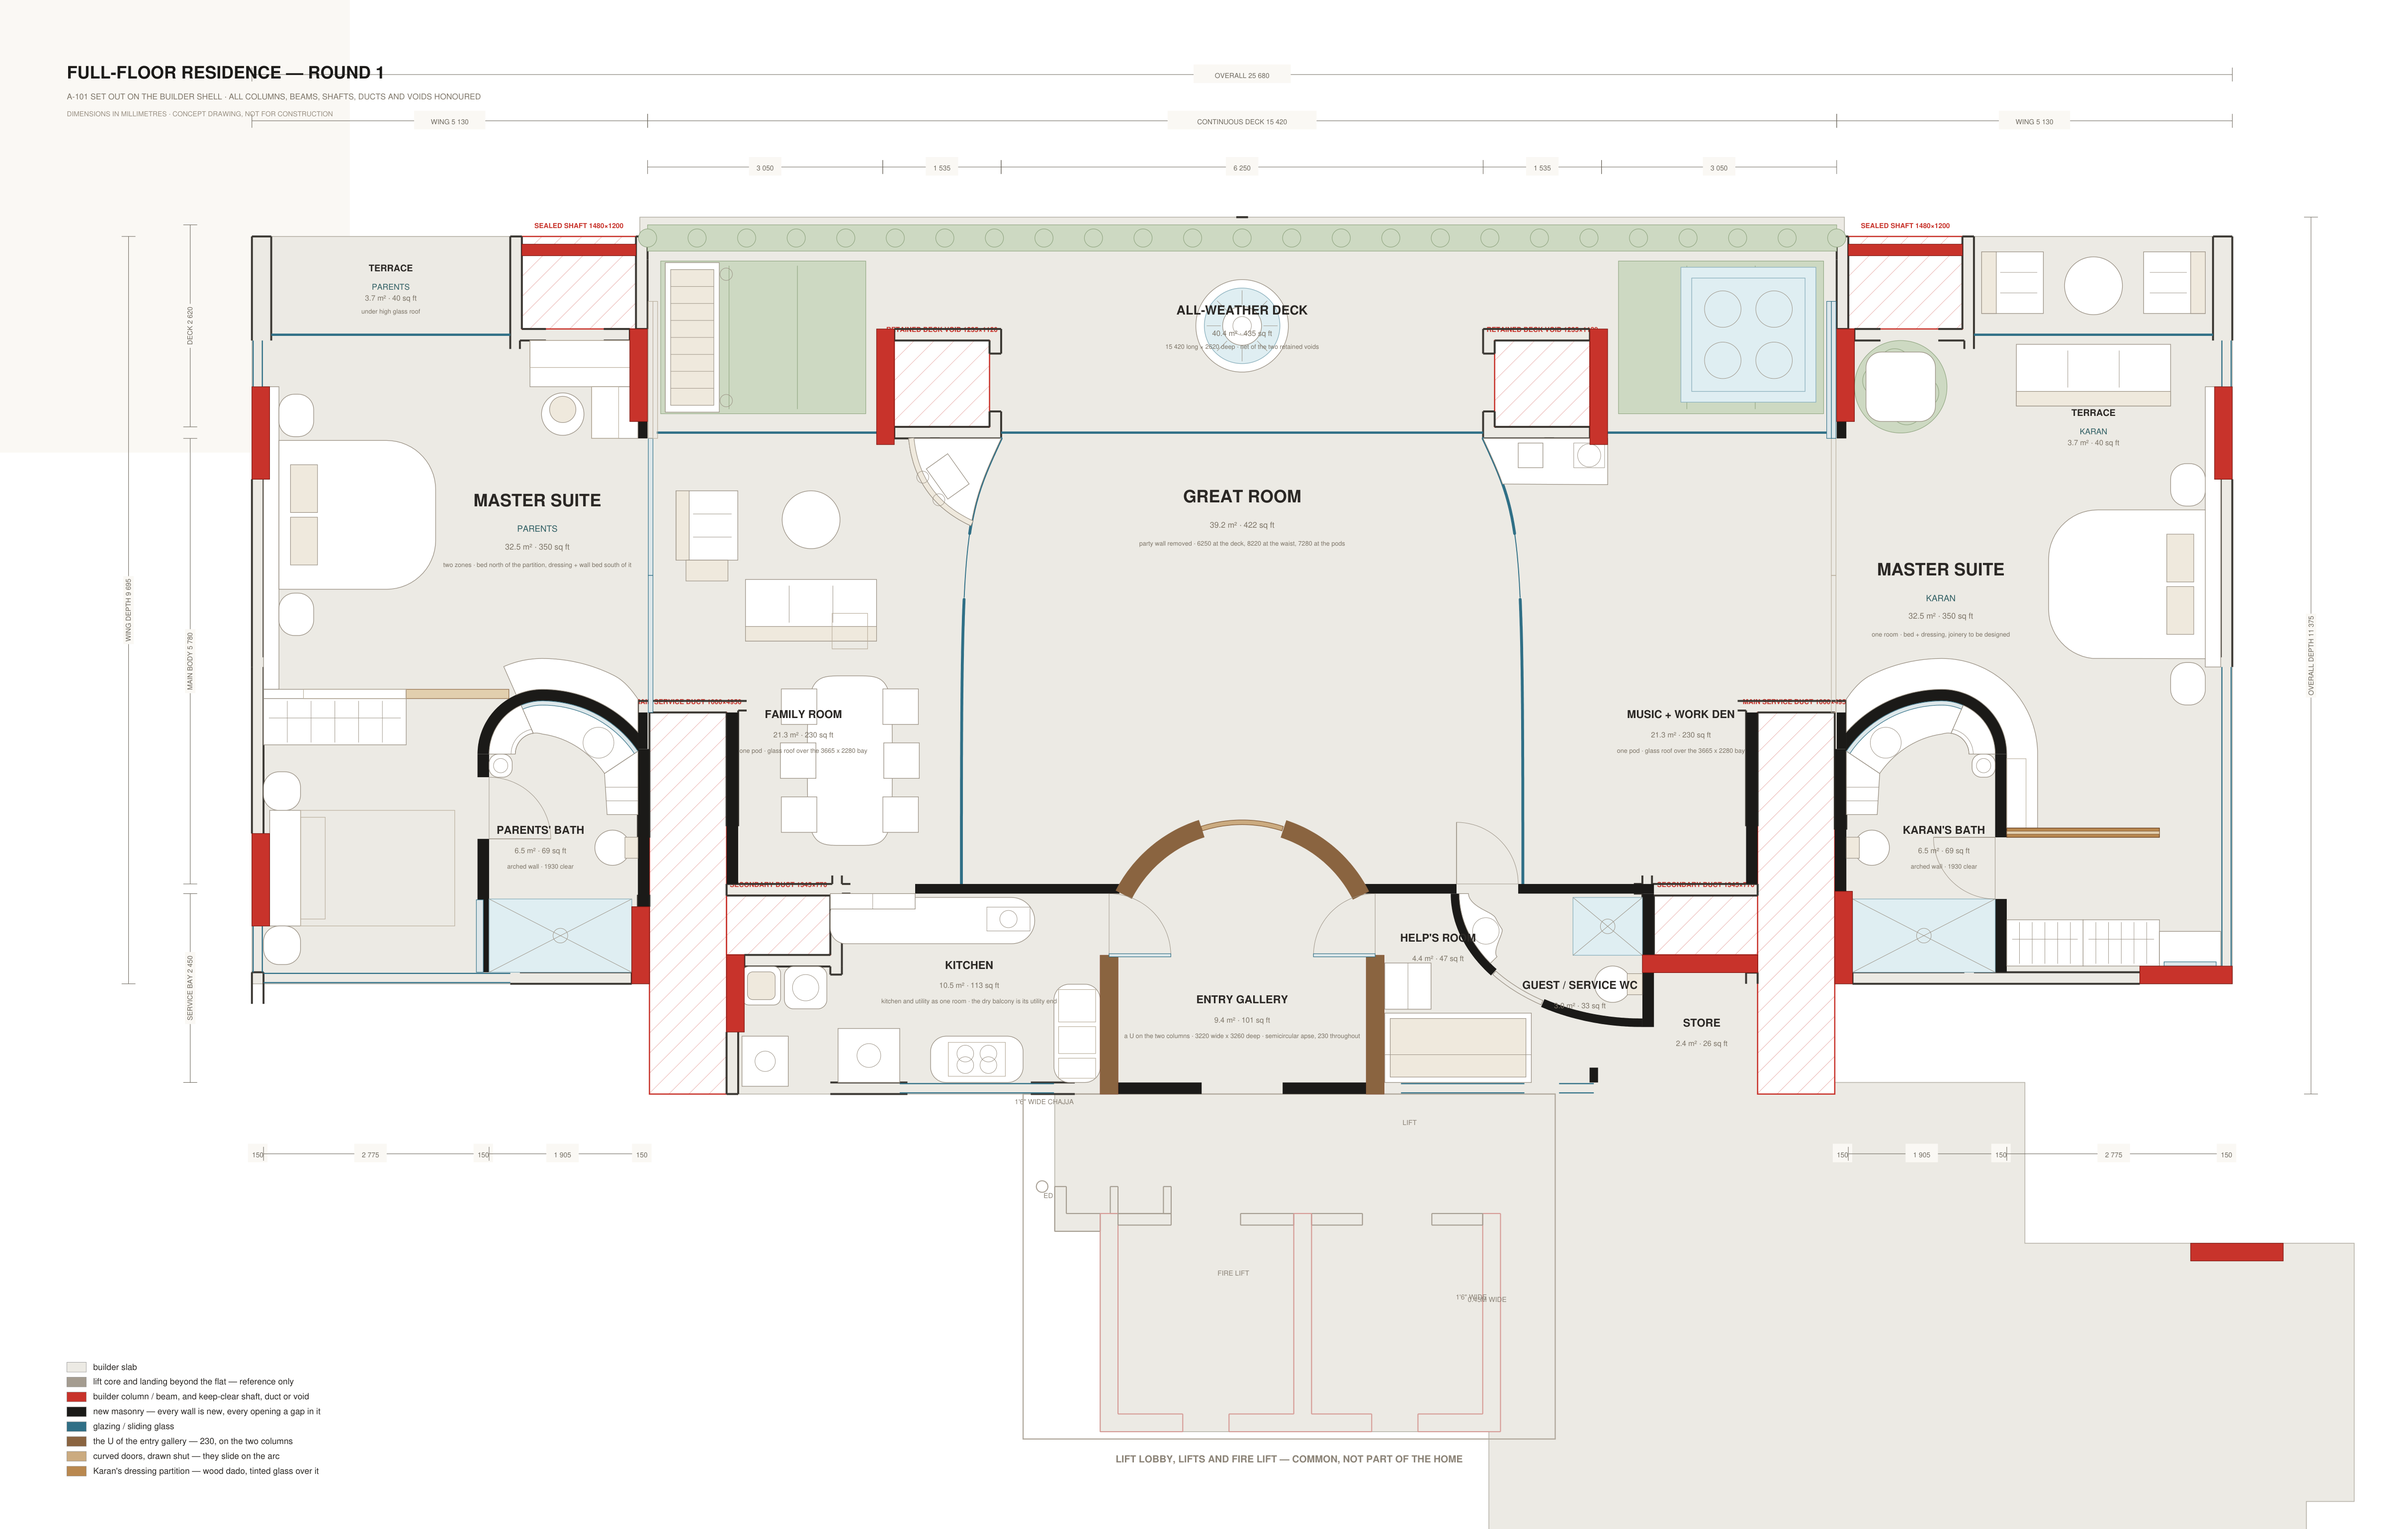
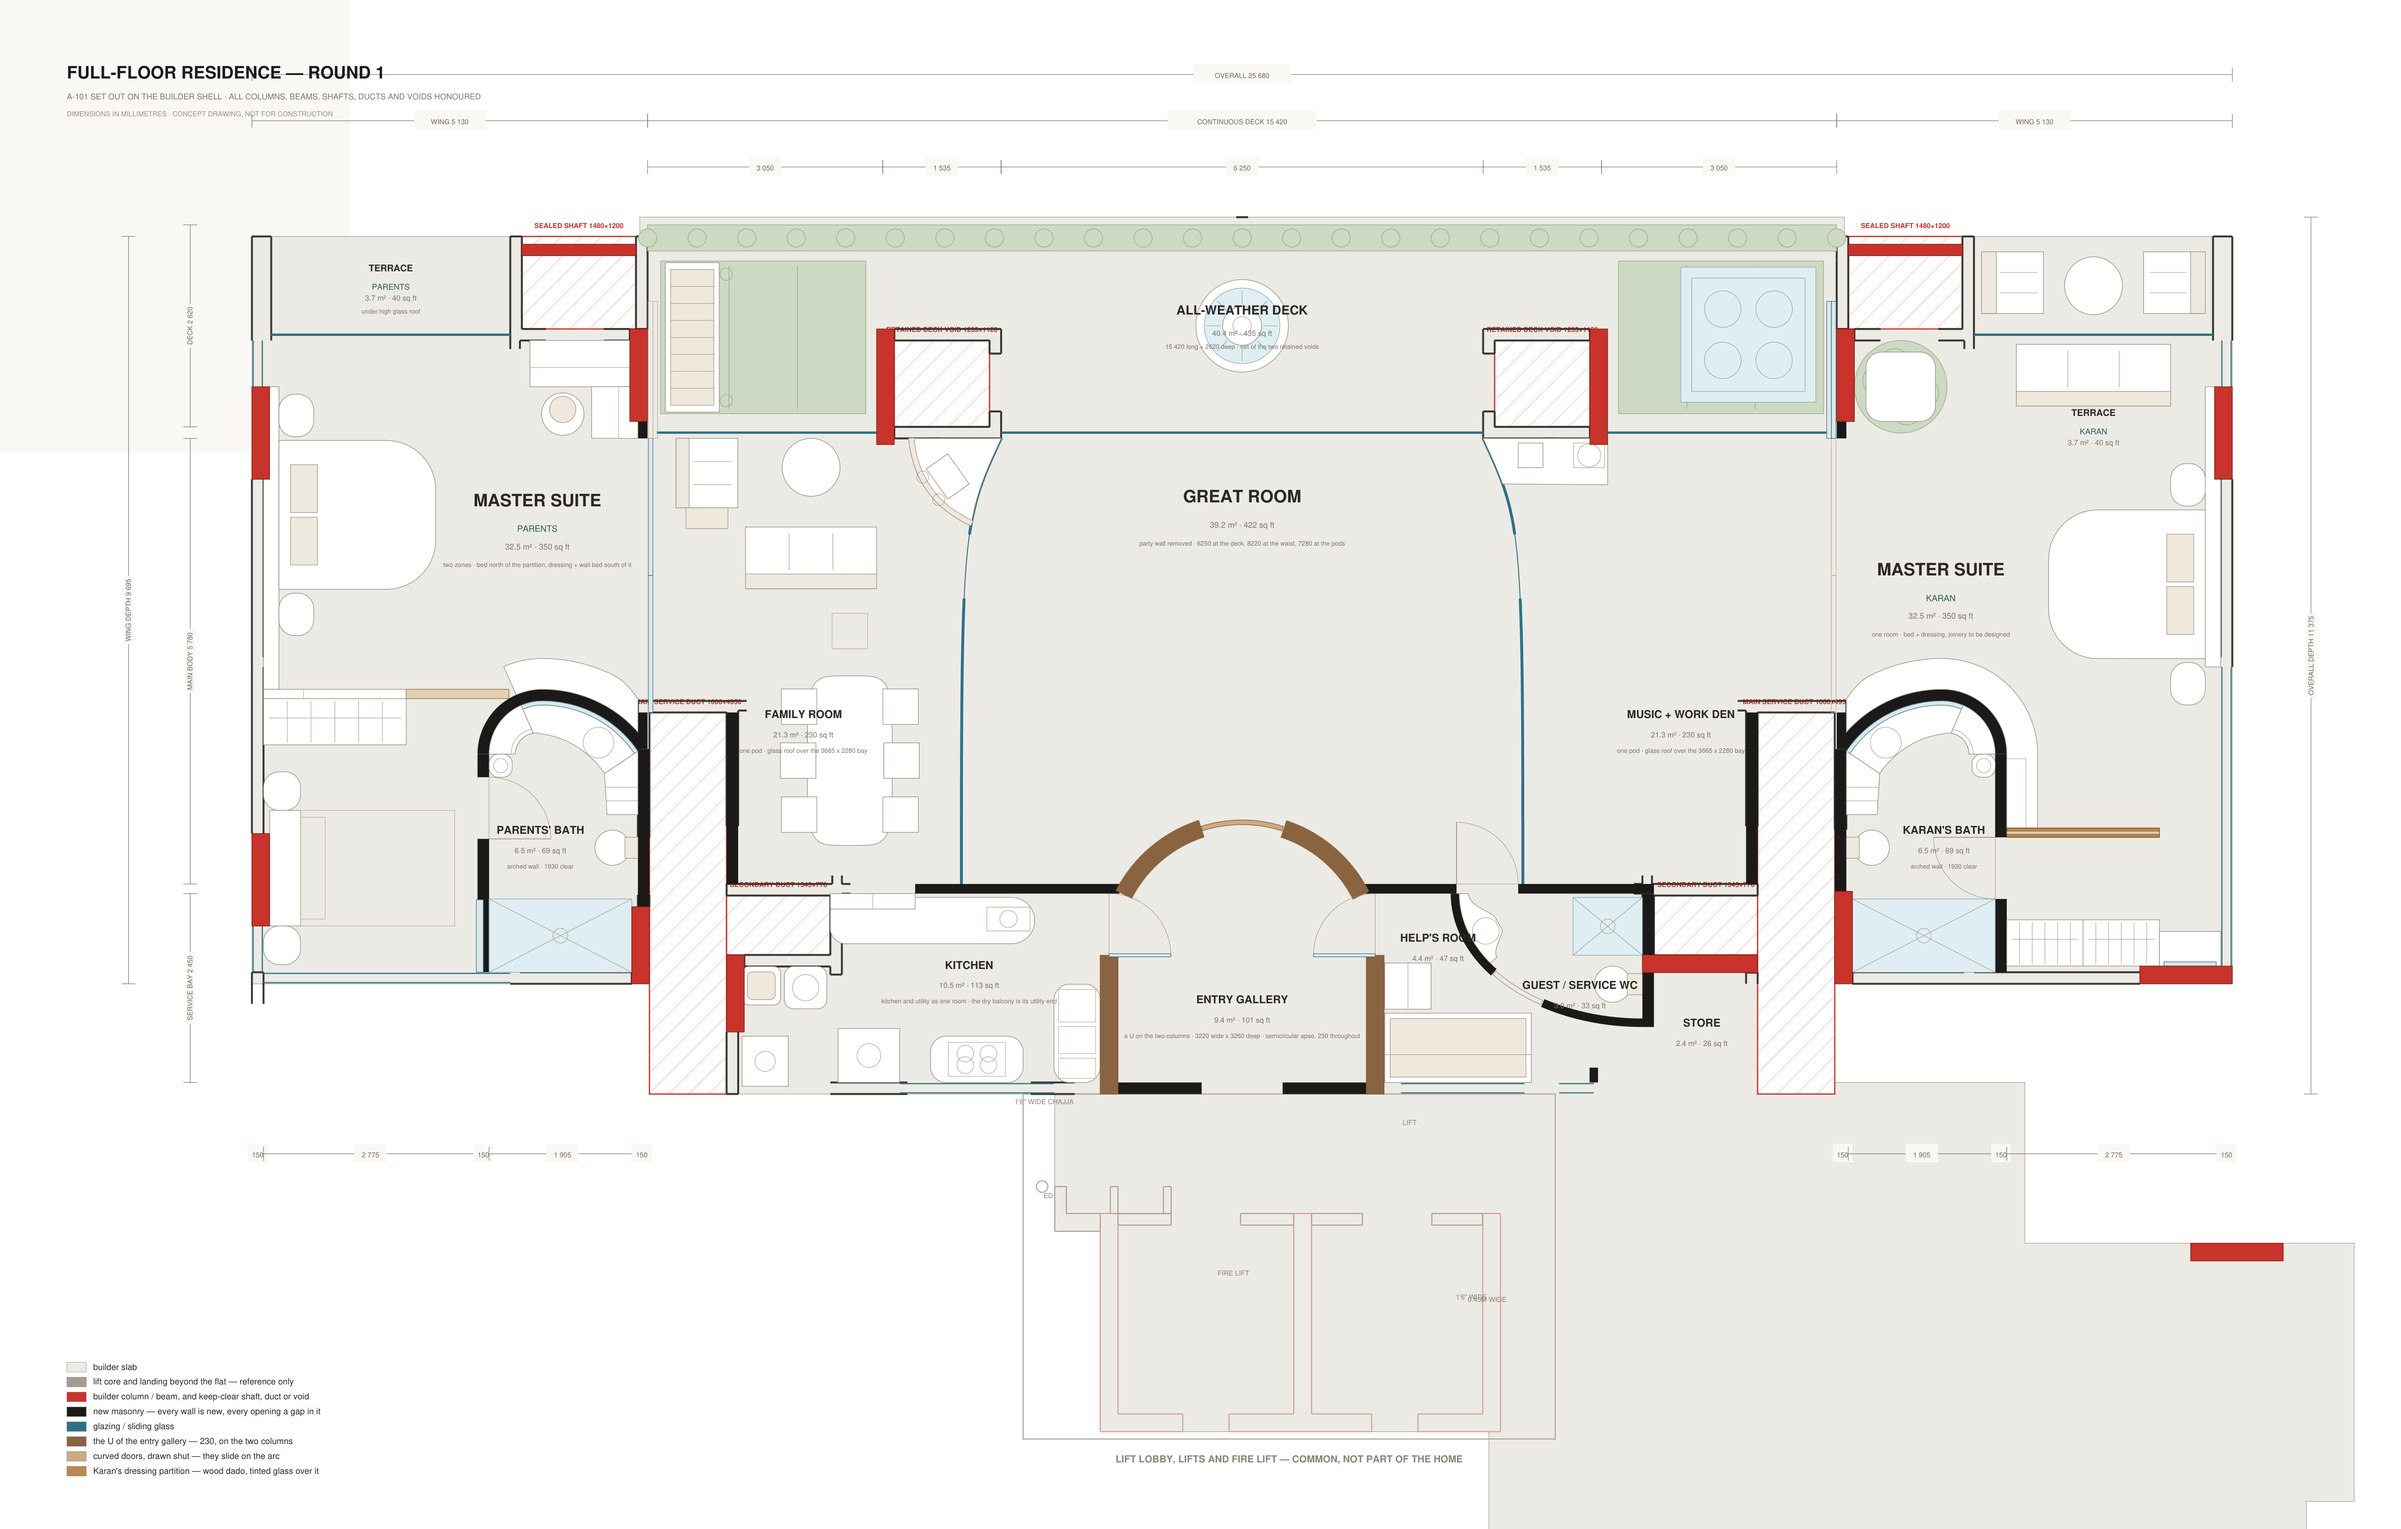
CAD: the parents' pod group moves 680 north, hard up to the deck line
The recliner and the round table now sit ON Y 2620, the pod's north wall, and
the two-seater follows so its 400 to the table is kept.  That buys 1130 behind
the sofa down to the dining table, against 450 before.

IT COSTS THE WAY OUT TO THE DECK.  The slider runs X 4650-7500 and the recliner
and the table now stand in it, leaving 250, 575 and 475 between them - so the
widest way through is 575, where it used to be the whole 2850.  Recorded rather
than buried: sliding the table 300 east opens the middle gap to 875.

Claude-Session: https://claude.ai/code/session_01HE1ZiZE53Xo6n73hYxijkS

Changed region(s): [[0.2795, 0.2808, 0.3727, 0.4368]]

diff --git a/CAD/tools/design.py b/CAD/tools/design.py
@@ -735,15 +735,26 @@ _ONCE = [
     # gone the group is an L rather than a U: closed on the west and the south,
     # open to the deck on the north and to the great room on the east.
     #
+    # THE WHOLE GROUP THEN MOVED 680 NORTH, hard up to the deck line: the
+    # recliner and the table now sit ON Y 2620, the pod's north wall, and the
+    # sofa follows so its 400 to the table is kept.  That buys 1130 behind the
+    # sofa down to the dining table, against 450 before.
+    #
+    # It costs the way out.  The deck slider runs X 4650-7500 and the recliner
+    # and the table now stand in it, leaving 250, 575 and 475 between them —
+    # so the widest way through to the deck is 575, where it used to be the
+    # whole 2850.  Karan asked for the move and the number is here rather than
+    # buried; sliding the table 300 east would open the middle gap to 875.
+    #
     # It clears everything without being pushed against anything:
     #   680 from the recliners north to the deck slider
     #   450 from the sofa's back south to the dining table
     #   433 behind the west recliner, and the suite's sliding partition still
     #       reads clear over Y 2620-3300 and 4200-6175, so the way through from
     #       the bedroom is never blocked
-    ('sofa-s',    5800, 4450, 7500, 5250, "two-seater  ·  1700 x 800, facing the deck"),
-    ('recliner-w', 4900, 3300, 5700, 4200, "recliner  ·  800 x 900, facing east"),
-    ('table',     6275, 3300, 7025, 4050, "centre table  ·  750 round"),
+    ('sofa-s',    5800, 3770, 7500, 4570, "two-seater  ·  1700 x 800, facing the deck"),
+    ('recliner-w', 4900, 2620, 5700, 3520, "recliner  ·  800 x 900, facing east"),
+    ('table',     6275, 2620, 7025, 3370, "centre table  ·  750 round"),
 
     # ------------------------------------------------- parents' pod: dining
     # NOT A ROUND TABLE.  It was a 1400 round, and a round table in a pod only
